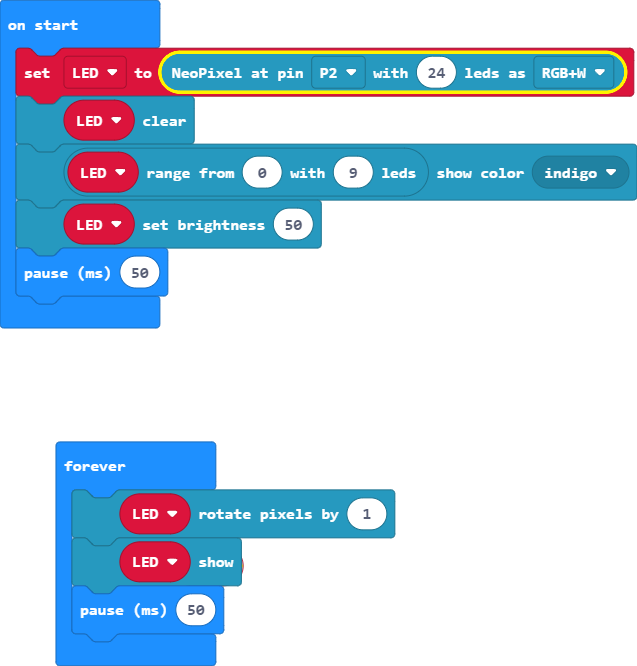
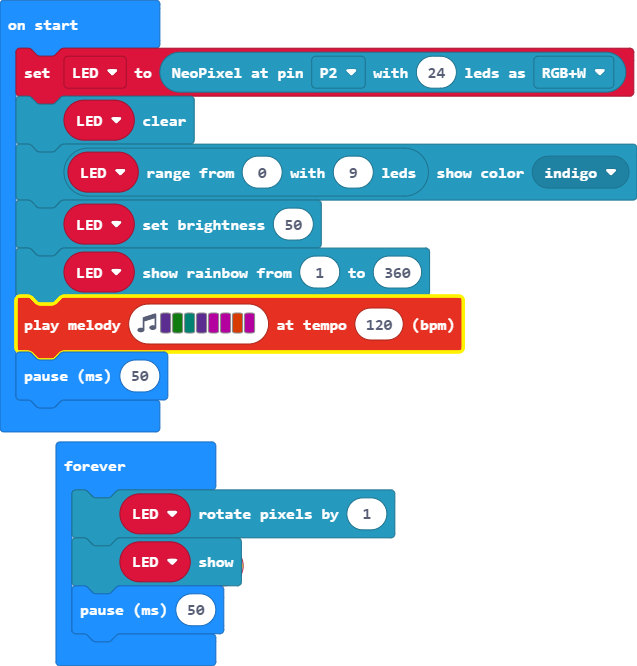
adding some music

Changed region(s): [[0.0, 0.3604, 0.7457, 0.6607], [0.2386, 0.0601, 0.9843, 0.1502]]

diff --git a/main.ts b/main.ts
@@ -2,6 +2,8 @@ let LED = neopixel.create(DigitalPin.P2, 24, NeoPixelMode.RGBW)
 LED.clear()
 LED.range(0, 9).showColor(neopixel.colors(NeoPixelColors.Indigo))
 LED.setBrightness(50)
+LED.showRainbow(1, 360)
+music.playMelody("D G F D C C B C ", 120)
 basic.pause(50)
 basic.forever(function () {
     LED.rotate(1)
